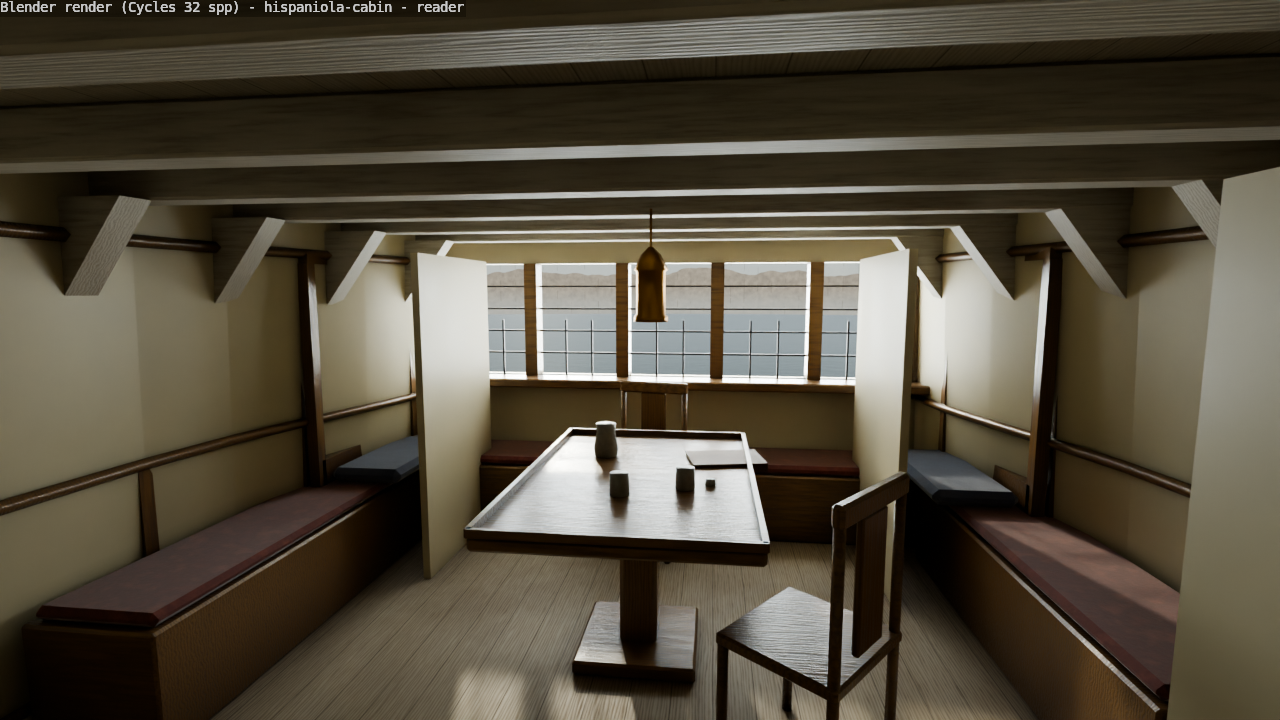
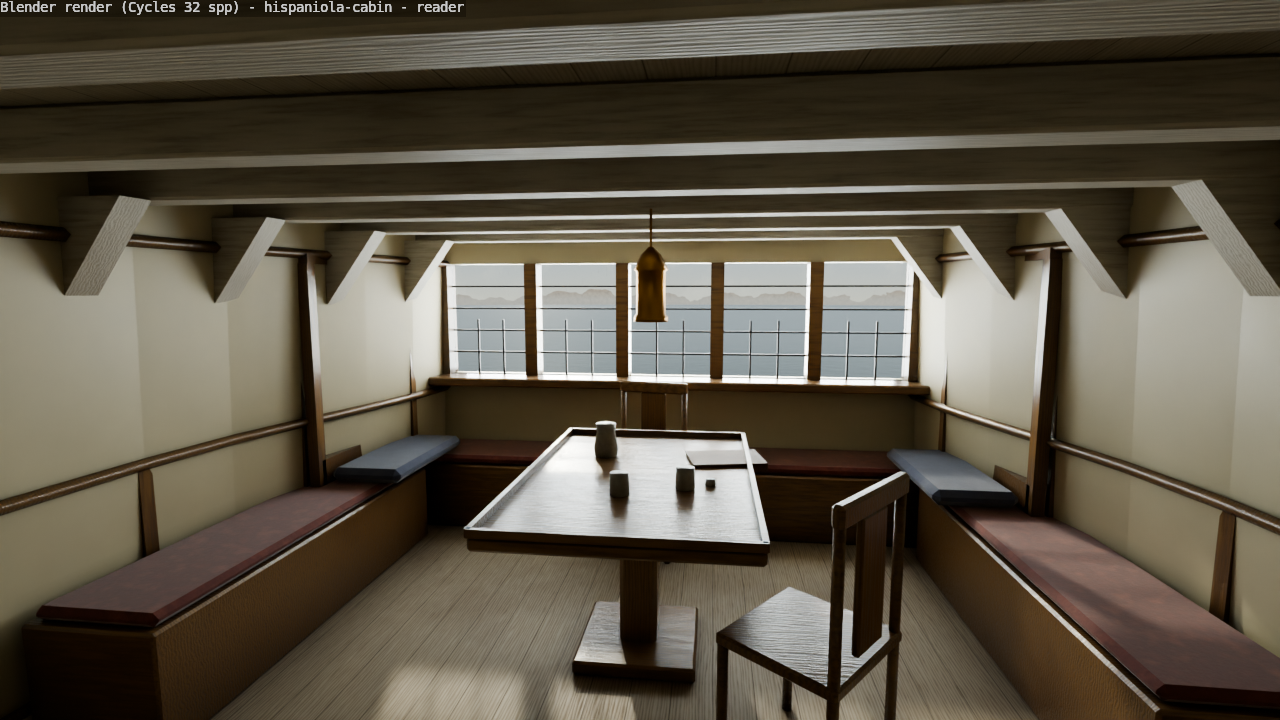
Scene room hispaniola-cabin (treasure c09): open harbour through the stern windows, berth partitions out of the cabin
The harbour water now runs out to 125 m and the backdrop of quays, roofs and anchored ships sits low beyond it (the
stern lights had shown the backdrop's town as a pale wall); the stray berth back-panels that stood beside the table
are gone. Re-baked and re-published. Triangles 6420, indoor; sound harbour:0.5+gulls:0.3+rigging:0.25.

diff --git a/blender/build_hispaniola_cabin.py b/blender/build_hispaniola_cabin.py
@@ -81,7 +81,7 @@ def harbour_view(name="M_HarbourView"):
     sky = mix_rgb(nt, 'MIX', maprange(nt, z, 0.0, 14.0, 0, 1, (-1400, 400)), (0.86, 0.85, 0.80, 1), (0.52, 0.64, 0.82, 1), (-1200, 400))
     cl = noise_(nt, co, 0.12, 5, 0.6, loc=(-1400, 650)); sky = mix_rgb(nt, 'MIX', maprange(nt, cl.outputs["Fac"], 0.5, 0.68, 0, 0.6, (-1200, 650)), sky, (0.96, 0.95, 0.92, 1), (-1000, 400))
     rn = noise_(nt, co, 0.15, 3, 0.5, loc=(-1500, 100))
-    town_top = math_(nt, 'ADD', 2.0, math_(nt, 'MULTIPLY', rn.outputs["Fac"], 4.0, (-1300, 100)), (-1200, 100))
+    town_top = math_(nt, 'ADD', WL + 0.6, math_(nt, 'MULTIPLY', maprange(nt, rn.outputs["Fac"], 0.3, 0.7, 0, 1, (-1400, 100)), 3.0, (-1300, 100)), (-1200, 100))
     town = maprange(nt, math_(nt, 'SUBTRACT', town_top, z, (-1100, 100)), 0, 0.05, 0, 1, (-1000, 100))
     tn = noise_(nt, co, 1.6, 4, 0.6, loc=(-1300, -100))
     tc = mix_rgb(nt, 'MIX', maprange(nt, tn.outputs["Fac"], 0.3, 0.7, 0, 1, (-1100, -100)), (0.40, 0.34, 0.30, 1), (0.62, 0.52, 0.44, 1), (-950, -100))
@@ -90,8 +90,8 @@ def harbour_view(name="M_HarbourView"):
     # masts of ships at anchor: thin dark verticals with yards
     mx = math_(nt, 'FRACT', math_(nt, 'DIVIDE', x, 1.7, (-1500, -500)), None, (-1400, -500))
     mn = noise_(nt, co, 0.9, 2, 0.5, loc=(-1500, -650))
-    has = maprange(nt, mn.outputs["Fac"], 0.5, 0.55, 0, 1, (-1300, -650))
-    mast = math_(nt, 'MULTIPLY', maprange(nt, math_(nt, 'ABSOLUTE', math_(nt, 'SUBTRACT', mx, 0.5, (-1300, -500)), None, (-1200, -500)), 0.0, 0.02, 1, 0, (-1100, -500)), has, (-1000, -550))
+    has = maprange(nt, mn.outputs["Fac"], 0.6, 0.62, 0, 1, (-1300, -650))
+    mast = math_(nt, 'MULTIPLY', maprange(nt, math_(nt, 'ABSOLUTE', math_(nt, 'SUBTRACT', mx, 0.5, (-1300, -500)), None, (-1200, -500)), 0.0, 0.008, 1, 0, (-1100, -500)), has, (-1000, -550))
     mast = math_(nt, 'MULTIPLY', mast, maprange(nt, z, 8.0, 8.3, 1, 0, (-1100, -800)), (-900, -650))
     col = mix_rgb(nt, 'MIX', math_(nt, 'MULTIPLY', mast, 0.85, (-800, -650)), col, (0.18, 0.16, 0.14, 1), (-500, 300))
     nt.links.new(col, b.inputs["Emission Color"]); b.inputs["Base Color"].default_value = (0, 0, 0, 1); b.inputs["Emission Strength"].default_value = 1.0
@@ -233,7 +233,7 @@ for sx in (-1, 1):
         F.box(f"BerthBoard{sx}{k}", (0.9, 0.06, 0.18), (0, 0.0, 0.45 + (0.18) / 2), M_OAK)
         F.box(f"BerthBlanket{sx}{k}", (0.85, 0.4, 0.08), (0, -0.25, 0.5 + (0.08) / 2), M_BLANKET, bevel=0.03)
         # the berth recess behind (dark) and a curtain drawn half across on a rod
-        F.box(f"BerthBack{sx}{k}", (0.95, 0.04, 1.75), (0, -0.62, 0.0 + (1.75) / 2), M_PANEL)
+        if False: F.box(f"BerthBack{sx}{k}", (0.95, 0.04, 1.75), (0, -0.62, 0.0 + (1.75) / 2), M_PANEL)
         cyl(f"BerthRod{sx}{k}", 0.008, 0.9, F.p(0, 0.04, 1.6), M_BRASS, verts=6, rot=(0, math.pi / 2, F.yaw))
         cv = []; cf = []
         for i in range(9):
@@ -255,11 +255,11 @@ lathe("Barometer", [(0.0, 0.0), (0.04, 0.0), (0.04, 0.7), (0.07, 0.75), (0.07, 0
 # ----------------------------------------------------------------------------- outside the stern: harbour water (water.ocean) and the far quays (backdrop)
 wv = []; wf = []; wc = []
 NA = 24
-for j, r in enumerate((0.3, 4, 12, 30, 70)):
+for j, r in enumerate((0.3, 4, 12, 30, 70, 125)):
     for i in range(NA + 1):
         a = math.radians(-80 + 160 * i / NA)
         wv.append((r * math.sin(a), Y1 + 0.2 + r * math.cos(a), WL))
-for j in range(4):
+for j in range(5):
     for i in range(NA): wf.append((j * (NA + 1) + i, j * (NA + 1) + i + 1, (j + 1) * (NA + 1) + i + 1, (j + 1) * (NA + 1) + i))
 wat = mesh_from("water.ocean.harbour", wv, wf, M_WATER)
 ul = wat.data.uv_layers.new(name="UVMap")
@@ -269,7 +269,7 @@ box("CounterOutside", (sw + 0.3, 0.2, 2.2), (0, Y1 + 0.2, WL - 0.3), M_BEAM)
 vv = []; vf = []
 for j in range(4):
     for i in range(17):
-        a = math.radians(-75 + 150 * i / 16); r = 75
+        a = math.radians(-75 + 150 * i / 16); r = 130
         vv.append((r * math.sin(a), Y1 + r * math.cos(a), WL - 0.5 + 24 * j / 3))
 for j in range(3):
     for i in range(16): vf.append((j * 17 + i, j * 17 + i + 1, (j + 1) * 17 + i + 1, (j + 1) * 17 + i))
